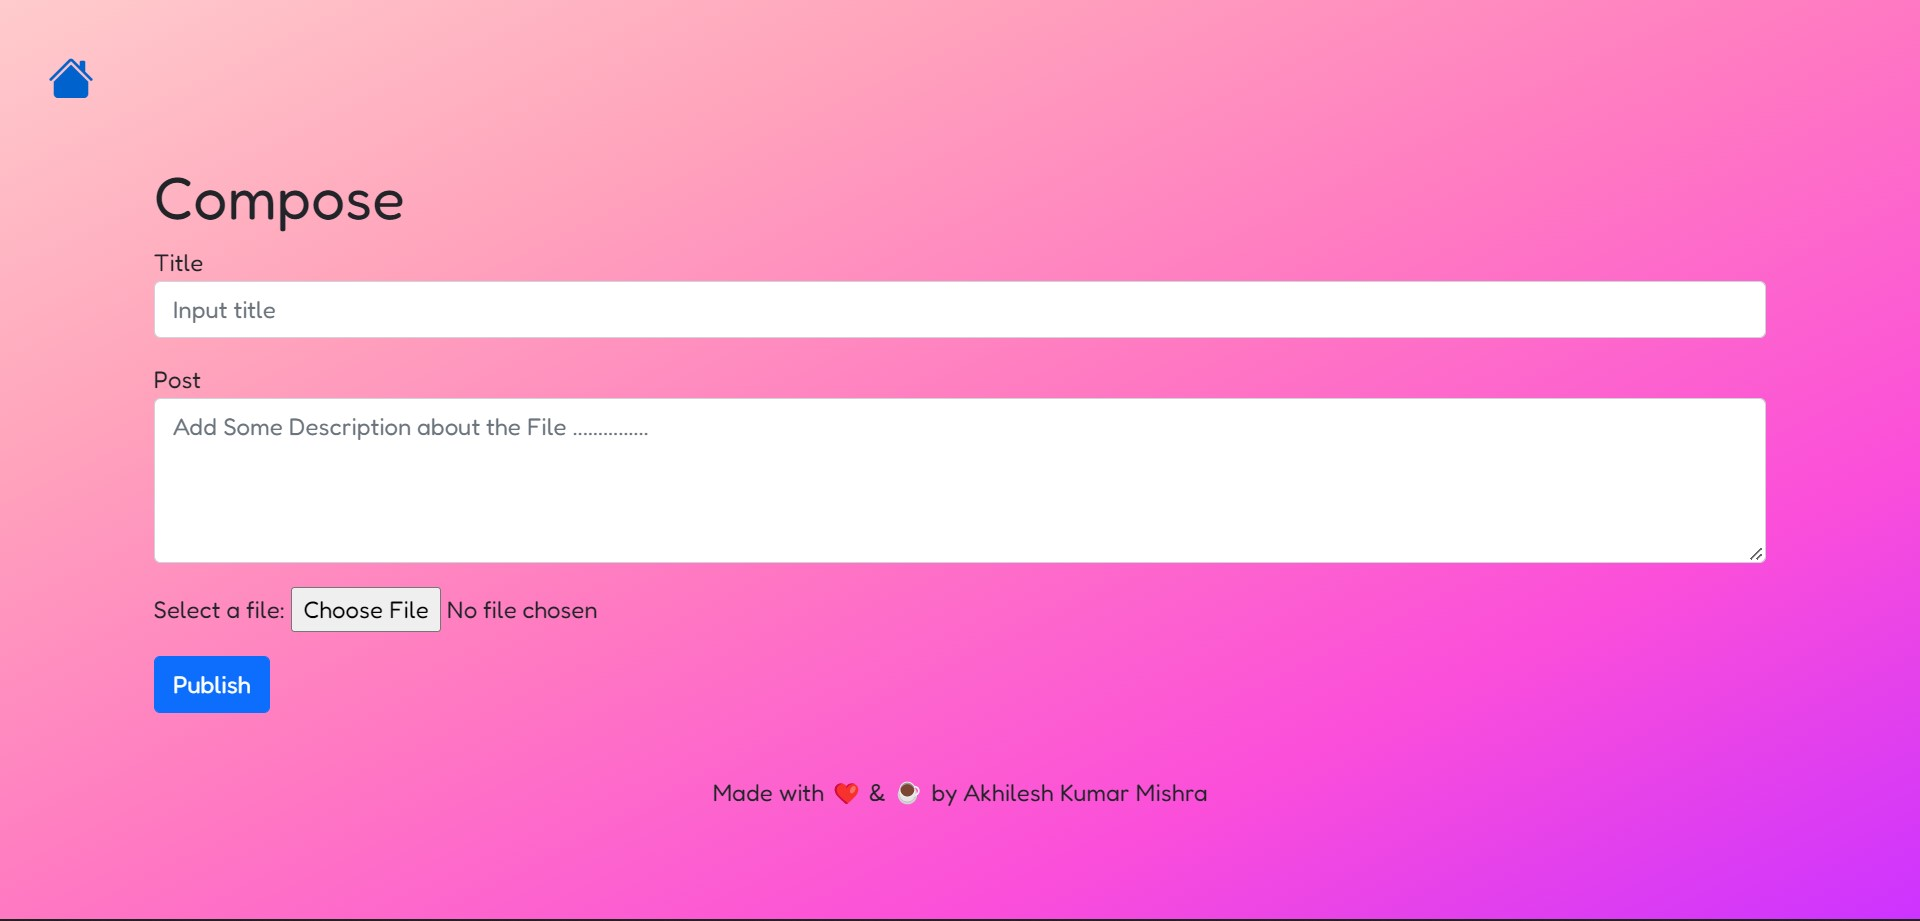
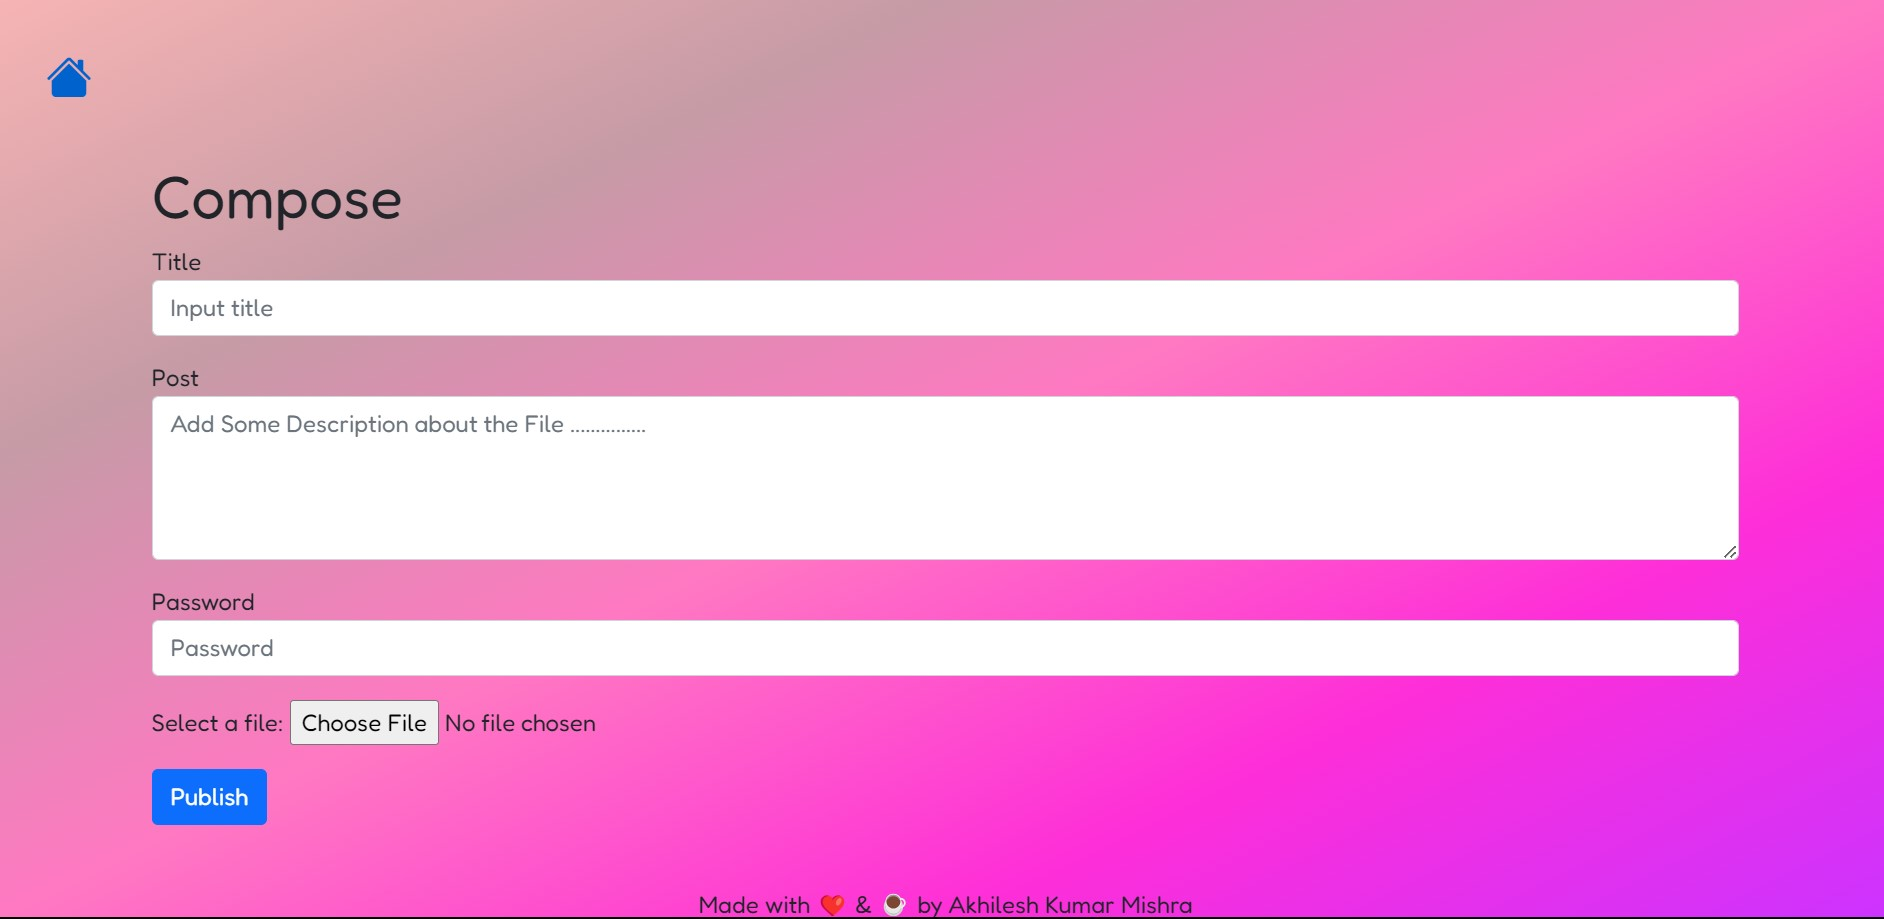
Readme Updation and sample image Added

diff --git a/README.md b/README.md
@@ -1,13 +1,31 @@
 # YourSpace 
-> A Space for all your Files --- You can Add, Read, Update, Delete as well Download the file from this 
+> A Space for all your files
 
+- Users can upload password protected files of any format (.pdf,.png,.jpg,.mp4,.docx,etc).
+
+- Users with the link and password can only Edit/Modify the files.
+
+- Implemented CRUD operations on the uploaded Files.
+
+- Developed REST APIs using all HTTP Methods.
+
+- The files uploaded will be removed automatically after 24 hrs if User do not delete it.
 
 ## .env Setup Instruction
 > Add .env file in root Directory and write 
 
-> MONGOD_URL = <MongoDb_URI>
+```
+MONGOD_URL
+PORT
+API_KEY
+APP_ID
+MSG_SENDER
+M_ID
+BUCKET_URL
 
-## Currently Live in [YourSpace-Heroku](https://yourspace-16t1.onrender.com/)
+```
+
+## Currently Live in [YourSpace-Cyclic](https://determined-waistcoat-clam.cyclic.app/)
 
 ![Home Page](/sample-pictures/home-page.jpg)
 ![Home List Page](/sample-pictures/files-list.jpg)
@@ -22,7 +40,7 @@ read, update and delete files.
 - Upload a file
 - Get list of all the files
 - Download a file
-- Update a file
+- Update/Edit a file
 - Delete a file
 
 ## Tech Stack Used
@@ -32,6 +50,8 @@ read, update and delete files.
 - NodeJS
 - EJS
 - MONGODB
+- Firebase Storage
+
 ## Dependencies 
 - Body-Parser
 - Dot env
@@ -44,22 +64,26 @@ read, update and delete files.
 ## To clone and work locally 
 - Clone the Repo locally 
 - run npm install command to install all the modules required for this Project
-- create .env file with your own database URI with key MONGOD_URL and Value your Mongoose connection link
+- create .env file as per Setup Instruction
+
 
 # EndPoints
-Base URL https://yourspace-16t1.onrender.com/
+Base URL https://determined-waistcoat-clam.cyclic.app/
 ## /compose
 
 ![Compose Page](/sample-pictures/compose-page.jpg)
 > It is post route that take multiple values 
 The user can upload the files from this route by clicking on Upload button from the home page 
-It will have three required column asking for title for the file name then a quick description about the file and the file itself
+It will have three required column asking for title for the file name then a quick description about the file and the file itself.
+
+>There is one entry with password and if the user want to keep his file password protected then only he/she can add the password.
+
 On clicking Pubish Button it will redirect to Home Page and show the list of Uploads 
 ```
 {
     title: req.body.postTitle,
     content: req.body.blog,
-    file: req.file.filename,
+    file: url/firebase,
  }
 ```
 
